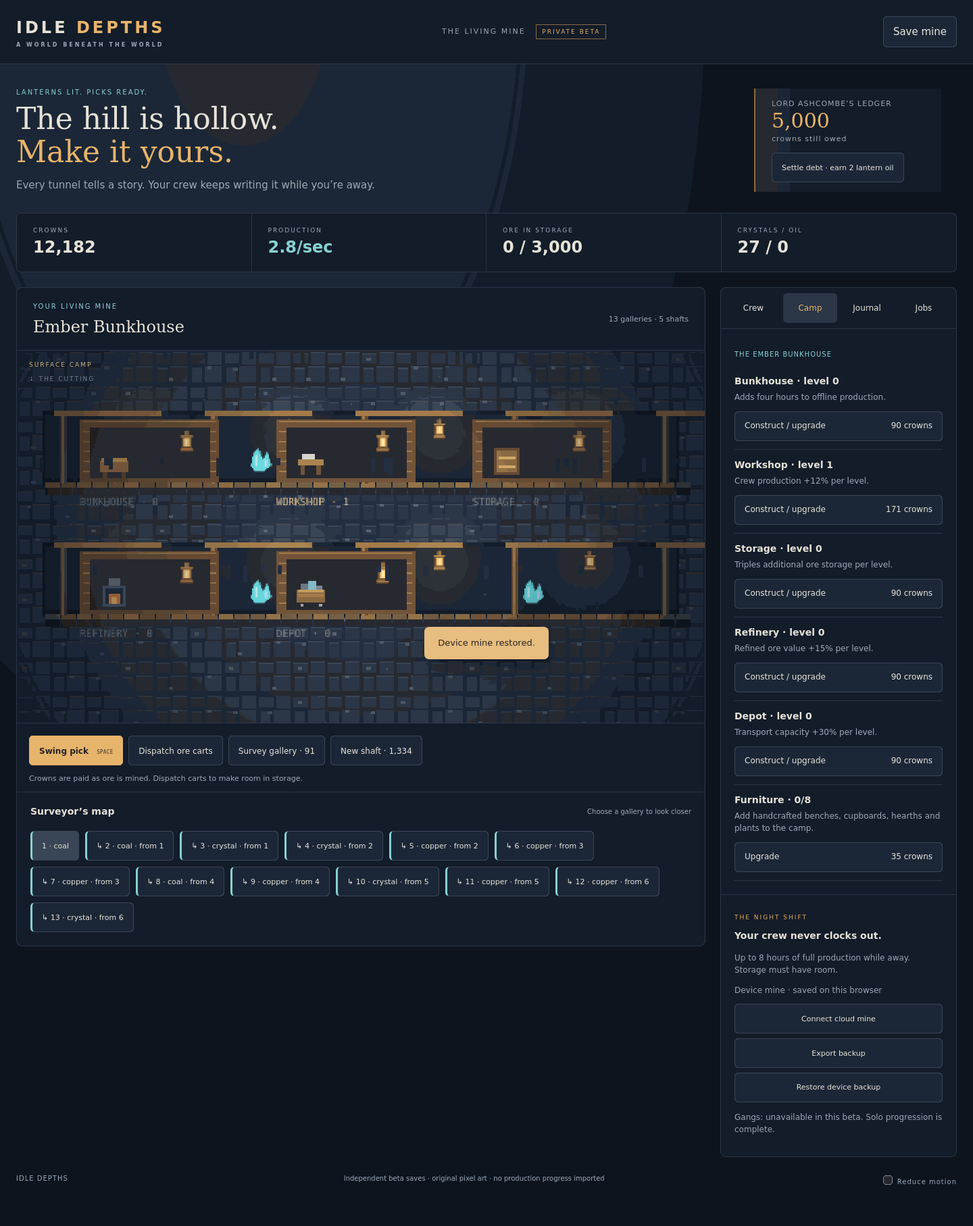
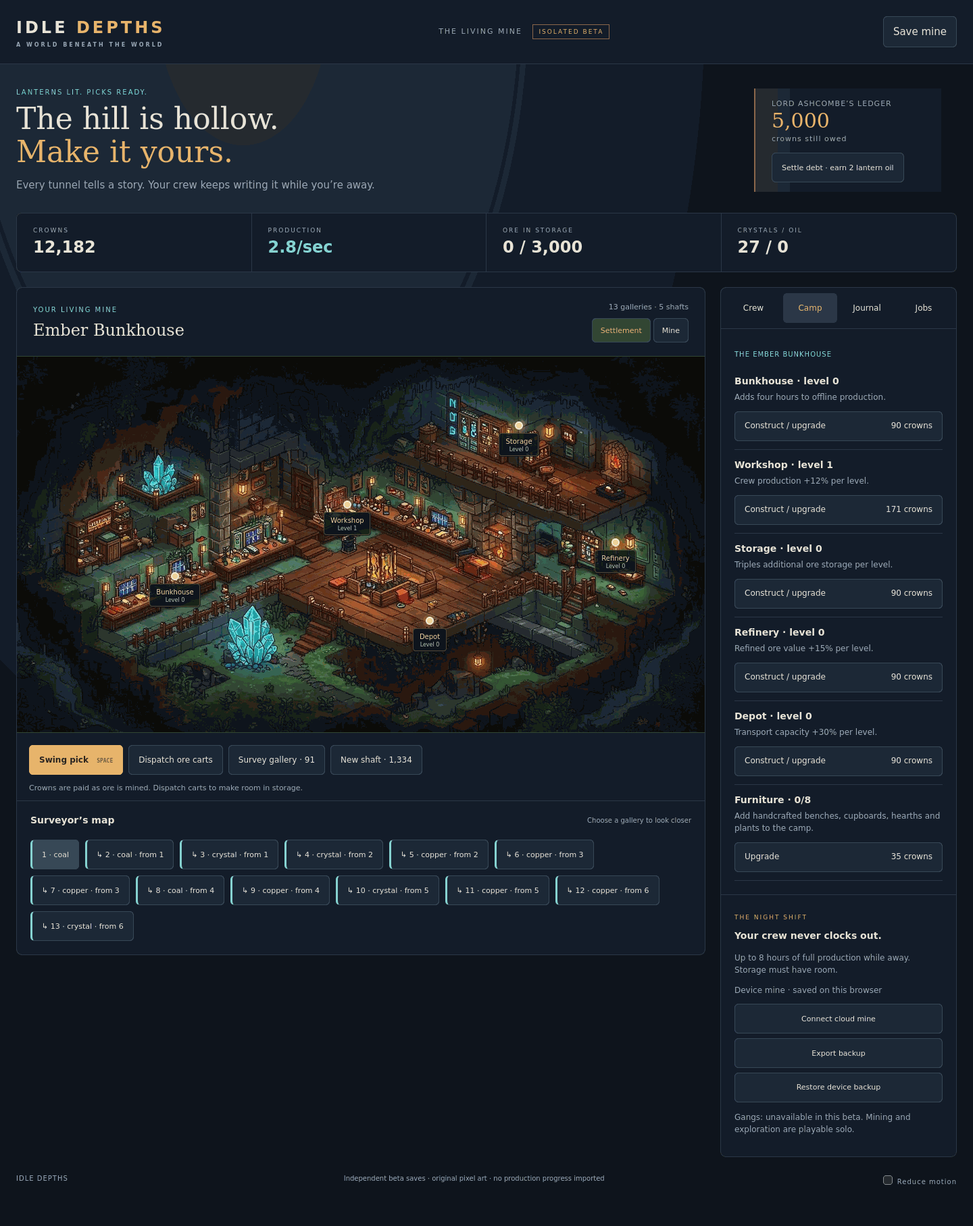
Use supplied settlement scene with functional facility hotspots and separate mine view

Changed region(s): [[0.0, 0.2468, 0.75, 0.7713], [0.5938, 0.6479, 0.6875, 0.6788], [0.9062, 0.8948, 0.9375, 0.9256]]

diff --git a/public/living-mine-beta/ui.js b/public/living-mine-beta/ui.js
@@ -1,6 +1,6 @@
 import {fresh,advance,action,rate,capacity,price,BUILDINGS,BIOMES,FINDS,contractList,validate} from './engine.js';
 import {render} from './renderer.js';
-const $=s=>document.querySelector(s),KEY='idle-depths:living-mine:v1',BACK=KEY+':backup';let s,tab='crew',selected=0,cloud=false,busy=false,dirty=false,toastTimer,lastPaint=0,frame=0;let reduced=matchMedia('(prefers-reduced-motion: reduce)').matches;$('#motion').checked=reduced;
+const $=s=>document.querySelector(s),KEY='idle-depths:living-mine:v1',BACK=KEY+':backup';let s,tab='settlement',sceneView='settlement',selected=0,cloud=false,busy=false,dirty=false,toastTimer,lastPaint=0,frame=0;let reduced=matchMedia('(prefers-reduced-motion: reduce)').matches;$('#motion').checked=reduced;
 const fmt=n=>Math.floor(n).toLocaleString();function toast(t){$('#toast').textContent=t;$('#toast').style.display='block';clearTimeout(toastTimer);toastTimer=setTimeout(()=>$('#toast').style.display='none',5000);}
 function persist(){if(cloud)return;try{const prev=localStorage.getItem(KEY);if(prev)localStorage.setItem(BACK,prev);localStorage.setItem(KEY,JSON.stringify(s));dirty=false;$('#mode').textContent='Device mine · saved on this browser';}catch{$('#mode').textContent='Storage unavailable · export a backup before leaving';}}
 function init(){try{const raw=localStorage.getItem(KEY);s=raw?validate(JSON.parse(raw)):fresh(crypto.getRandomValues(new Uint32Array(1))[0]);}catch{try{const damaged=localStorage.getItem(KEY);if(damaged)localStorage.setItem(KEY+':damaged',damaged);}catch{}try{s=validate(JSON.parse(localStorage.getItem(BACK)));toast('Recovered the previous device save.');}catch{s=fresh(crypto.getRandomValues(new Uint32Array(1))[0]);toast('Unreadable save kept in storage; starting a new device mine. Export before saving if you need recovery.');}}const elapsed=Date.now()-s.last;const r=advance(s,Date.now());s=r.state;if(elapsed>60000)toast(`Your crew earned ${fmt(r.earned)} crowns while you were away.`);draw();$('#mode').textContent='Device mine · cloud saves connect separately';}
@@ -9,10 +9,12 @@ function panel(){if(tab==='crew')return `<p class="tag">${s.miners} MINERS ON SH
  if(tab==='settlement')return '<p class="tag">THE EMBER BUNKHOUSE</p>'+BUILDINGS.map((id,i)=>card(`${id[0].toUpperCase()+id.slice(1)} · level ${s.buildings[id]}`,['Adds four hours to offline production.','Crew production +12% per level.','Triples additional ore storage per level.','Refined ore value +15% per level.','Transport capacity +30% per level.'][i]+(s.construction?.id===id?` Building: ${Math.max(0,Math.ceil((s.construction.ends-Date.now())/1000))}s remaining.`:''),'build',price(s,'build',id),id,!!s.construction||s.buildings[id]>=5)).join('')+card(`Furniture · ${s.decor}/8`,'Add handcrafted benches, cupboards, hearths and plants to the camp.','decor',35,null,s.decor>=8);
  if(tab==='journal')return `<p class="tag">${s.journal.length} DISCOVERIES · +${s.journal.length*3}% PRODUCTION</p>`+(s.journal.length?s.journal.map(j=>`<div class="card"><h3>${FINDS[j.find][0]}</h3><p>${FINDS[j.find][1]}</p><small>Gallery ${j.chamber+1} · ${BIOMES[s.chambers[j.chamber].biome].name}</small></div>`).join(''):'<p>The stone keeps its secrets. Mine 180 crowns to reveal your first discovery. Each surveyed gallery has another find.</p>');
  return '<p class="tag">THE CONTRACT BOARD</p>'+contractList(s).map(c=>`<div class="card"><h3>${c.name}</h3><p>${fmt(Math.min(c.goal,c.progress))} / ${fmt(c.goal)} · reward ${c.reward} crowns + 1 crystal</p><progress value="${Math.min(c.goal,c.progress)}" max="${c.goal}"></progress><button data-action="contract" data-id="${c.id}" ${s.claimed.includes(c.id)||c.progress<c.goal?'disabled':''}>${s.claimed.includes(c.id)?'Completed':'Collect reward'}</button></div>`).join('');}
-function draw(){const view=cloud?advance(s,Date.now()).state:s;$('#cash').textContent=fmt(view.cash);$('#rate').textContent=rate(s).toFixed(1)+'/sec';$('#ore').textContent=fmt(view.ore)+' / '+fmt(capacity(s));$('#crystals').textContent=fmt(s.crystals)+' / '+s.oil;$('#debt').textContent=fmt(s.debt);$('#biome').textContent=tab==='settlement'?'Ember Bunkhouse':BIOMES[s.chambers[selected]?.biome||0].name;$('#depth').textContent=`${s.chambers.length} galleries · ${s.shafts} shafts`;$('#explore').textContent='Survey gallery · '+fmt(price(s,'explore'));$('#explore').disabled=s.cash<price(s,'explore')||s.chambers.length>=s.shafts*3;$('#shaft').textContent='New shaft · '+fmt(price(s,'shaft'));$('#shaft').disabled=s.cash<price(s,'shaft')||s.shafts>=8;$('#offline-info').textContent=`Up to ${8+s.buildings.bunkhouse*4} hours of full production while away. Storage must have room.`;$('#panel').innerHTML=panel();$('#map').innerHTML=s.chambers.map(c=>`<button data-chamber="${c.id}" class="${selected===c.id?'selected':''}" aria-pressed="${selected===c.id}">${c.id?'↳ ':''}${c.id+1} · ${c.deposit}${c.parent!==null?` · from ${c.parent+1}`:''}</button>`).join('');$('[data-action="debt"]').disabled=s.cash<s.debt;}
+const stations=[{id:'bunkhouse',name:'Bunkhouse',x:23,y:62},{id:'workshop',name:'Workshop',x:48,y:43},{id:'storage',name:'Storage',x:73,y:22},{id:'refinery',name:'Refinery',x:87,y:53},{id:'depot',name:'Depot',x:60,y:74}];
+function drawSettlement(){const camp=sceneView==='settlement';$('#settlement-scene').hidden=!camp;$('#scene').hidden=camp;$('#scene-label').hidden=camp;document.querySelectorAll('[data-view]').forEach(b=>b.setAttribute('aria-pressed',String(b.dataset.view===sceneView)));$('#settlement-hotspots').innerHTML=stations.map(p=>{const building=s.construction?.id===p.id;const status=building?`Building · ${Math.max(0,Math.ceil((s.construction.ends-Date.now())/1000))}s`:`Level ${s.buildings[p.id]}`;return `<button class="station ${building?'constructing':''}" data-station="${p.id}" style="left:${p.x}%;top:${p.y}%" aria-label="Open ${p.name} upgrades, ${status}"><span class="station-dot"></span><span class="station-label">${p.name}<small>${status}</small></span></button>`;}).join('');}
+function draw(){const view=cloud?advance(s,Date.now()).state:s;$('#cash').textContent=fmt(view.cash);$('#rate').textContent=rate(s).toFixed(1)+'/sec';$('#ore').textContent=fmt(view.ore)+' / '+fmt(capacity(s));$('#crystals').textContent=fmt(s.crystals)+' / '+s.oil;$('#debt').textContent=fmt(s.debt);$('#biome').textContent=sceneView==='settlement'?'Ember Bunkhouse':BIOMES[s.chambers[selected]?.biome||0].name;$('#depth').textContent=`${s.chambers.length} galleries · ${s.shafts} shafts`;$('#explore').textContent='Survey gallery · '+fmt(price(s,'explore'));$('#explore').disabled=s.cash<price(s,'explore')||s.chambers.length>=s.shafts*3;$('#shaft').textContent='New shaft · '+fmt(price(s,'shaft'));$('#shaft').disabled=s.cash<price(s,'shaft')||s.shafts>=8;$('#offline-info').textContent=`Up to ${8+s.buildings.bunkhouse*4} hours of full production while away. Storage must have room.`;$('#panel').innerHTML=panel();drawSettlement();$('#map').innerHTML=s.chambers.map(c=>`<button data-chamber="${c.id}" class="${selected===c.id?'selected':''}" aria-pressed="${selected===c.id}">${c.id?'↳ ':''}${c.id+1} · ${c.deposit}${c.parent!==null?` · from ${c.parent+1}`:''}</button>`).join('');$('[data-action="debt"]').disabled=s.cash<s.debt;}
 async function send(a){if(busy)return;busy=true;try{if(cloud){const r=await fetch('/api/living-mine/action',{method:'POST',headers:{'content-type':'application/json'},body:JSON.stringify({requestId:crypto.randomUUID(),revision:s.revision,action:a})});const data=await r.json();if(!r.ok){if(r.status===409)await sync();throw Error(data.error||'Cloud request failed');}s=validate(data.state);}else{s=action(s,a,Date.now());dirty=true;persist();}draw();}catch(e){toast(e.message);}finally{busy=false;}}
 async function sync(){const r=await fetch('/api/living-mine/state');const data=await r.json();if(!r.ok)throw Error(data.error||'Cloud unavailable');s=validate(data.state);cloud=true;selected=Math.min(selected,s.chambers.length-1);$('#mode').textContent='Cloud mine · server validated · separate from device mine';$('#cloud').textContent='Refresh cloud mine';draw();return data;}
-document.addEventListener('click',e=>{const btn=e.target.closest('button');if(!btn)return;if(btn.dataset.action)send({type:btn.dataset.action,id:btn.dataset.id});if(btn.dataset.tab){tab=btn.dataset.tab;document.querySelectorAll('[data-tab]').forEach(b=>b.setAttribute('aria-selected',String(b===btn)));draw();}if(btn.dataset.chamber){selected=+btn.dataset.chamber;draw();}});
+document.addEventListener('click',e=>{const btn=e.target.closest('button');if(!btn)return;if(btn.dataset.action)send({type:btn.dataset.action,id:btn.dataset.id});if(btn.dataset.view){sceneView=btn.dataset.view;draw();}if(btn.dataset.station){tab='settlement';document.querySelectorAll('[data-tab]').forEach(b=>b.setAttribute('aria-selected',String(b.dataset.tab===tab)));draw();const target=document.querySelector(`[data-action=build][data-id=${btn.dataset.station}]`);target?.closest('.card')?.scrollIntoView({behavior:reduced?'instant':'smooth',block:'nearest'});target?.focus({preventScroll:true});}if(btn.dataset.tab){tab=btn.dataset.tab;document.querySelectorAll('[data-tab]').forEach(b=>b.setAttribute('aria-selected',String(b===btn)));draw();}if(btn.dataset.chamber){selected=+btn.dataset.chamber;sceneView='mine';draw();}});
 document.addEventListener('keydown',e=>{if(e.code==='Space'&&!['INPUT','BUTTON','TEXTAREA'].includes(document.activeElement.tagName)){e.preventDefault();send({type:'mine'});}});
 $('#save').onclick=async()=>{try{if(cloud)await sync();else persist();toast('Mine saved. Your crew will keep working.');}catch(e){toast(e.message);}};
 $('#cloud').onclick=async()=>{if(busy)return;busy=true;try{if(!cloud)persist();const data=await sync();toast(`Cloud mine opened. ${fmt(data.earned)} crowns earned since your last visit.`);}catch(e){toast(e.message);}finally{busy=false;}};
@@ -23,4 +25,4 @@ document.addEventListener('visibilitychange',()=>{if(document.hidden){if(!cloud)
 window.addEventListener('pagehide',()=>{if(!cloud)persist();});
 // Device saves are independent and intentionally not trusted by the cloud service.
 init();setInterval(()=>{if(!cloud){s=advance(s,Date.now()).state;dirty=true;}draw();},1000);setInterval(()=>{if(cloud&&!busy&&!document.hidden)sync().catch(e=>{$('#mode').textContent='Cloud connection interrupted · retry to reconcile';});else if(dirty)persist();},15000);
-function animate(t){if(!document.hidden&&t-lastPaint>(reduced?1000:1000/24)){render($('#scene'),s,reduced?0:t,selected,tab==='settlement');lastPaint=t;}frame=requestAnimationFrame(animate);}requestAnimationFrame(animate);
+function animate(t){if(sceneView==='mine'&&!document.hidden&&t-lastPaint>(reduced?1000:1000/24)){render($('#scene'),s,reduced?0:t,selected,false);lastPaint=t;}frame=requestAnimationFrame(animate);}requestAnimationFrame(animate);

diff --git a/public/living-mine-beta/style.css b/public/living-mine-beta/style.css
@@ -1,2 +1,4 @@
 :root{color-scheme:dark;--bg:#0d141f;--panel:#151e2b;--line:#2b3747;--text:#e8e3d7;--muted:#9caaba;--amber:#e8b56b;--cyan:#86d2d0}*{box-sizing:border-box}body{margin:0;background:radial-gradient(ellipse at 25% 0,#233041 0,transparent 45%),var(--bg);font:15px/1.5 system-ui,sans-serif;color:var(--text)}button,.import{font:inherit;border:1px solid #3b4a5c;background:#1d2a3b;color:var(--text);padding:11px 14px;min-height:44px;border-radius:6px;cursor:pointer;transition:background .15s}button:hover{background:#304259}button:focus-visible,a:focus-visible,input:focus-visible{outline:3px solid var(--cyan);outline-offset:3px}button:disabled{opacity:.4;cursor:default}header{display:flex;align-items:center;justify-content:space-between;gap:15px;padding:22px max(24px,calc((100vw - 1440px)/2));border-bottom:1px solid var(--line);background:#101824d9}.brand{font-size:24px;font-weight:900;letter-spacing:4px;color:var(--text);text-decoration:none}.brand span{color:var(--amber)}.brand small{display:block;font-size:8px;letter-spacing:3px;color:var(--muted);margin-top:2px}.beta{font-size:11px;letter-spacing:2px;color:var(--muted)}.beta span{display:inline-block;border:1px solid #856b44;color:var(--amber);padding:3px 8px;margin-left:10px;font-size:9px}main{max-width:1440px;margin:auto;padding:34px 24px}.intro{display:flex;justify-content:space-between;gap:24px;align-items:center;margin-bottom:30px}.eyebrow{font-size:10px;letter-spacing:2px;color:var(--cyan);margin:0 0 8px}h1{font-family:Georgia,serif;font-size:44px;line-height:1.1;margin:0 0 14px;font-weight:normal}h1 em{color:var(--amber);font-style:normal}.intro p:not(.eyebrow){color:var(--muted);margin:0}.ledger{border-left:2px solid #866a44;padding:14px 24px;background:linear-gradient(90deg,#b0823220,transparent);width:300px}.ledger small,.ledger span{display:block;color:var(--muted);font-size:11px;letter-spacing:1px}.ledger strong{font:30px Georgia;color:var(--amber)}.ledger button{font-size:11px;margin-top:12px}.stats{display:grid;grid-template-columns:repeat(4,1fr);border:1px solid var(--line);border-radius:8px;margin-bottom:22px;background:#131d2b}.stats>div{padding:18px 24px;border-right:1px solid var(--line)}.stats>div:last-child{border:0}.stats small{display:block;font-size:9px;letter-spacing:2px;color:var(--muted)}.stats strong{font-size:24px;font-weight:600}.stats>div:nth-child(2) strong{color:var(--cyan)}.workspace{display:grid;grid-template-columns:minmax(0,1fr) 350px;gap:22px}.mine,aside{border:1px solid var(--line);border-radius:9px;background:var(--panel);overflow:hidden}.scene-head{display:flex;justify-content:space-between;align-items:center;padding:20px 24px}.scene-head h2{font:24px Georgia;margin:0}.scene-head>span{font-size:11px;color:var(--muted)}.canvas-wrap{position:relative;background:#111926;border-block:1px solid var(--line)}canvas{display:block;width:100%;aspect-ratio:960/520;image-rendering:pixelated}.scene-label{position:absolute;left:18px;top:14px;font-size:9px;letter-spacing:2px;color:#d4ba8b;text-shadow:0 2px #0d141f}.scene-label span{display:block;color:#728899;margin-top:8px}.mine-controls{display:flex;flex-wrap:wrap;gap:8px;padding:18px 18px 0}.mine-controls button{font-size:12px}.primary{background:var(--amber);border-color:var(--amber);color:#29261f;font-weight:700}.primary:hover{background:#ffd397}kbd{font-size:8px;opacity:.6;margin-left:8px}.hint{font-size:11px;color:var(--muted);padding:0 18px}.map-head{display:flex;justify-content:space-between;align-items:center;padding:10px 20px;border-top:1px solid var(--line)}h3{font-size:14px;margin:8px 0}.map-head span{font-size:10px;color:var(--muted)}.map{display:flex;flex-wrap:wrap;gap:9px;padding:0 20px 20px}.map button{font-size:11px;border-left:3px solid var(--cyan)}.map .selected{background:#304655}nav{display:flex;border-bottom:1px solid var(--line);padding:8px;gap:4px}nav button{flex:1;background:transparent;border:0;padding:10px 4px;font-size:12px}nav button[aria-selected=true]{background:#2c3b4d;color:var(--amber)}#panel{padding:20px;min-height:360px}.card{border-bottom:1px solid var(--line);padding:12px 0}.card:first-child{padding-top:0}.card h3{margin:0 0 4px}.card p{font-size:12px;color:var(--muted);margin:3px 0 12px}.card button{width:100%;font-size:12px;display:flex;justify-content:space-between}.card img{width:48px;height:48px;image-rendering:pixelated}.tag{color:var(--cyan);font-size:10px;letter-spacing:1px}.shift{padding:20px;background:#101927;border-top:1px solid var(--line)}.shift small{color:var(--amber);font-size:9px;letter-spacing:2px}.shift p{font-size:12px;color:var(--muted)}.shift button,.import{display:block;width:100%;text-align:center;font-size:11px;margin:7px 0}.import input{display:none}footer{display:flex;justify-content:space-between;gap:16px;flex-wrap:wrap;padding:24px 0;color:var(--muted);font-size:10px;letter-spacing:1px}footer span{letter-spacing:0}#toast{position:fixed;bottom:25px;left:50%;transform:translateX(-50%);background:#e7bd80;color:#272622;box-shadow:0 8px 35px #0007;padding:14px 20px;border-radius:7px;max-width:90vw;font-size:13px;display:none;z-index:10}progress{width:100%;height:7px;accent-color:var(--amber)}@media(max-width:1000px){.workspace{grid-template-columns:minmax(0,1fr) 300px}.stats strong{font-size:19px}}@media(max-width:760px){header{padding:16px}.brand{font-size:19px}.beta{display:none}main{padding:24px 12px}.intro{align-items:flex-start}.intro h1{font-size:32px}.intro p:not(.eyebrow){font-size:12px}.ledger{width:155px;padding:8px 12px}.ledger strong{font-size:22px}.ledger small{font-size:8px}.ledger button{padding:8px;font-size:10px}.stats{grid-template-columns:repeat(2,1fr)}.stats>div{padding:12px 16px;border-bottom:1px solid var(--line)}.workspace{grid-template-columns:1fr;gap:16px}.scene-head{padding:15px}.scene-head h2{font-size:22px}canvas{min-height:235px;object-fit:cover}.mine-controls{display:grid;grid-template-columns:1fr 1fr;padding:12px 12px 0}.mine-controls button{padding:10px 6px}kbd{display:none}.map-head span{display:none}#panel{min-height:0}nav{position:sticky;top:0;background:var(--panel)}footer{padding:16px 5px}button{touch-action:manipulation}}@media(prefers-reduced-motion:reduce){*{transition:none!important}}
 .mine{align-self:start}
+/* The supplied scene is the settlement foundation. Gameplay stays in real controls. */
+[hidden]{display:none!important}.scene-tools{display:flex;flex-direction:column;align-items:flex-end;gap:9px}.scene-tools>span{font-size:11px;color:var(--muted)}.scene-switch{display:flex;gap:4px}.scene-switch button{font-size:11px;padding:5px 12px;min-height:36px}.scene-switch button[aria-pressed=true]{color:var(--amber);background:#304237}.settlement-scene{position:relative;isolation:isolate;background:#0b1412}.settlement-scene>img{display:block;width:100%;height:auto;image-rendering:auto}.station{position:absolute;transform:translate(-50%,-50%);display:flex;flex-direction:column;align-items:center;justify-content:center;gap:5px;border:0;background:transparent!important;padding:5px;min-width:44px;min-height:44px;border-radius:6px;text-shadow:0 1px 3px #000;z-index:2}.station-dot{width:12px;height:12px;background:#efc785;border:2px solid #fff3d6;border-radius:50%;box-shadow:0 0 0 4px #e7b26724,0 0 16px #e7b26799}.station-label{display:block;white-space:nowrap;background:#101b17e6;border:1px solid #98794b85;border-radius:4px;padding:4px 9px;font-size:10px;line-height:1.35;color:#f1d6a5;box-shadow:0 2px 12px #0004}.station-label small{display:block;color:#b8c9bb;font-size:8px}.station:hover .station-label,.station:focus-visible .station-label{background:#3c4934;border-color:#f0c582}.constructing .station-dot{background:#80d0cb;box-shadow:0 0 12px #71c8c5}.constructing .station-label{border-color:#74bbb9}.canvas-wrap:has(.settlement-scene:not([hidden])){border-color:#3f4c3e}.card:focus-within{background:#deac5f0b}@media(max-width:760px){.scene-switch button{min-height:44px}.station-label{font-size:8px;padding:3px 5px}.station-label small{font-size:7px}.station-dot{width:8px;height:8px}.station{gap:3px;padding:3px}.scene-tools>span{font-size:9px}.scene-head .eyebrow{font-size:8px}}

diff --git a/public/living-mine-beta/index.html b/public/living-mine-beta/index.html
@@ -1,1 +1,1 @@
-<!doctype html><html lang="en"><head><meta charset="utf-8"><meta name="viewport" content="width=device-width,initial-scale=1,viewport-fit=cover"><meta name="theme-color" content="#111925"><title>IDLE DEPTHS · Living Mine Beta</title><link rel="icon" href="../icon.svg"><link rel="stylesheet" href="style.css"></head><body><header><a class="brand" href="/">IDLE <span>DEPTHS</span><small>A WORLD BENEATH THE WORLD</small></a><div class="beta">THE LIVING MINE <span>ISOLATED BETA</span></div><button id="save">Save mine</button></header><main><section class="intro"><div><p class="eyebrow">LANTERNS LIT. PICKS READY.</p><h1>The hill is hollow.<br><em>Make it yours.</em></h1><p>Every tunnel tells a story. Your crew keeps writing it while you’re away.</p></div><div class="ledger"><small>LORD ASHCOMBE’S LEDGER</small><strong id="debt"></strong><span>crowns still owed</span><button data-action="debt">Settle debt · earn 2 lantern oil</button></div></section><section class="stats" aria-label="Mine resources"><div><small>CROWNS</small><strong id="cash">—</strong></div><div><small>PRODUCTION</small><strong id="rate">—</strong></div><div><small>ORE IN STORAGE</small><strong id="ore">—</strong></div><div><small>CRYSTALS / OIL</small><strong id="crystals">—</strong></div></section><section class="workspace"><div class="mine"><div class="scene-head"><div><p class="eyebrow">YOUR LIVING MINE</p><h2 id="biome">The Cutting</h2></div><span id="depth"></span></div><div class="canvas-wrap"><canvas id="scene" width="960" height="520" aria-label="Side view of your mine. Use Swing pick to mine and the map to select galleries."></canvas><div class="scene-label">SURFACE CAMP <span>↓ THE CUTTING</span></div></div><div class="mine-controls"><button class="primary" data-action="mine">Swing pick <kbd>SPACE</kbd></button><button data-action="haul">Dispatch ore carts</button><button data-action="explore" id="explore"></button><button data-action="shaft" id="shaft"></button></div><p class="hint">Crowns are paid as ore is mined. Dispatch carts to make room in storage.</p><div class="map-head"><h3>Surveyor’s map</h3><span>Choose a gallery to look closer</span></div><div id="map" class="map"></div></div><aside><nav aria-label="Mine panels"><button data-tab="crew" aria-selected="true">Crew</button><button data-tab="settlement">Camp</button><button data-tab="journal">Journal</button><button data-tab="contracts">Jobs</button></nav><div id="panel"></div><section class="shift"><small>THE NIGHT SHIFT</small><h3>Your crew never clocks out.</h3><p id="offline-info">Up to 8 hours of full production while you’re away.</p><p id="mode">Opening the mine…</p><button id="cloud">Connect cloud mine</button><button id="export">Export backup</button><label class="import">Restore device backup<input id="import" type="file" accept="application/json"></label><p>Gangs: unavailable in this beta. Mining and exploration are playable solo.</p></section></aside></section><footer>IDLE DEPTHS <span>Independent beta saves · original pixel art · no production progress imported</span><label><input type="checkbox" id="motion"> Reduce motion</label></footer></main><div id="toast" role="status" aria-live="polite"></div><script type="module" src="ui.js"></script></body></html>
+<!doctype html><html lang="en"><head><meta charset="utf-8"><meta name="viewport" content="width=device-width,initial-scale=1,viewport-fit=cover"><meta name="theme-color" content="#111925"><title>IDLE DEPTHS · Living Mine Beta</title><link rel="icon" href="../icon.svg"><link rel="stylesheet" href="style.css"></head><body><header><a class="brand" href="/">IDLE <span>DEPTHS</span><small>A WORLD BENEATH THE WORLD</small></a><div class="beta">THE LIVING MINE <span>ISOLATED BETA</span></div><button id="save">Save mine</button></header><main><section class="intro"><div><p class="eyebrow">LANTERNS LIT. PICKS READY.</p><h1>The hill is hollow.<br><em>Make it yours.</em></h1><p>Every tunnel tells a story. Your crew keeps writing it while you’re away.</p></div><div class="ledger"><small>LORD ASHCOMBE’S LEDGER</small><strong id="debt"></strong><span>crowns still owed</span><button data-action="debt">Settle debt · earn 2 lantern oil</button></div></section><section class="stats" aria-label="Mine resources"><div><small>CROWNS</small><strong id="cash">—</strong></div><div><small>PRODUCTION</small><strong id="rate">—</strong></div><div><small>ORE IN STORAGE</small><strong id="ore">—</strong></div><div><small>CRYSTALS / OIL</small><strong id="crystals">—</strong></div></section><section class="workspace"><div class="mine"><div class="scene-head"><div><p class="eyebrow">YOUR LIVING MINE</p><h2 id="biome">The Cutting</h2></div><div class="scene-tools"><span id="depth"></span><div class="scene-switch" aria-label="Scene view"><button data-view="settlement" aria-pressed="true">Settlement</button><button data-view="mine" aria-pressed="false">Mine</button></div></div></div><div class="canvas-wrap" id="scene-stage"><div id="settlement-scene" class="settlement-scene"><img src="assets/ember-settlement-reference.jpeg" alt="Your furnished underground settlement, with stone terraces, timber walkways, warm lanterns and glowing cyan crystals." width="1536" height="838"><div id="settlement-hotspots"></div></div><canvas id="scene" width="960" height="520" aria-label="Side view of your mine. Use Swing pick to mine and the map to select galleries."></canvas><div class="scene-label" id="scene-label">EMBER BUNKHOUSE <span>CHOOSE A WORKSTATION</span></div></div><div class="mine-controls"><button class="primary" data-action="mine">Swing pick <kbd>SPACE</kbd></button><button data-action="haul">Dispatch ore carts</button><button data-action="explore" id="explore"></button><button data-action="shaft" id="shaft"></button></div><p class="hint">Crowns are paid as ore is mined. Dispatch carts to make room in storage.</p><div class="map-head"><h3>Surveyor’s map</h3><span>Choose a gallery to look closer</span></div><div id="map" class="map"></div></div><aside><nav aria-label="Mine panels"><button data-tab="crew" aria-selected="false">Crew</button><button data-tab="settlement" aria-selected="true">Camp</button><button data-tab="journal">Journal</button><button data-tab="contracts">Jobs</button></nav><div id="panel"></div><section class="shift"><small>THE NIGHT SHIFT</small><h3>Your crew never clocks out.</h3><p id="offline-info">Up to 8 hours of full production while you’re away.</p><p id="mode">Opening the mine…</p><button id="cloud">Connect cloud mine</button><button id="export">Export backup</button><label class="import">Restore device backup<input id="import" type="file" accept="application/json"></label><p>Gangs: unavailable in this beta. Mining and exploration are playable solo.</p></section></aside></section><footer>IDLE DEPTHS <span>Independent beta saves · original pixel art · no production progress imported</span><label><input type="checkbox" id="motion"> Reduce motion</label></footer></main><div id="toast" role="status" aria-live="polite"></div><script type="module" src="ui.js"></script></body></html>

diff --git a/docs/living-mine-beta/README.md b/docs/living-mine-beta/README.md
@@ -68,3 +68,7 @@ Do not merge or deploy this branch until approved. Creating/pushing a feature br
 This is the first playable implementation. The small atlas and two-tier side-view camp are substantially simpler than the detailed isometric reference; it is not final production-quality artwork. World generation is a bounded connected gallery tree, with no collision-based free movement, flooded passage obstacles or branching exploration choices. Deposits label chambers; coal/copper currently share ore/crown value. Discoveries have a common 3% production bonus rather than individual research trees. Crystals are collectibles without a spending tree. No full Wyrm combat, complete stories, gang multiplayer or SwiftUI application. Facility levels change furnishings after level two, not bespoke art at every level. Device timestamps are not cheat-resistant; only cloud time is server-authoritative. Multiple guest tabs are not coordinated. Cloud receipts retain 128 IDs; stale revisions prevent old retries from repeating rewards. Prior cloud save is stored, but operator recovery is manual. No cloud save import/reset endpoints.
 
 Wrangler dry-run packaging passed. Local runtime testing was attempted but startup failed with `uv_interface_addresses returned Unknown system error 1`; see TEST-RESULTS.md. Actual iPhone Safari, Android Chrome, real Cloudflare deployment, Discord roundtrip and Durable Object runtime integration have not passed here and remain release gates. Firefox mobile viewport/touch tests are not a substitute for those devices. No changes have been deployed to the live website.
+
+## Current settlement presentation
+
+At the user's request the default settlement now uses their exact supplied reference image, with five positioned facility selectors and live upgrade/construction badges. The Mine view remains side-on and is selectable separately. The supplied image is a static scene foundation, not a procedural sprite layer; changing a facility currently changes its gameplay effects and badge, not the painted furniture. Art-source provenance is recorded in assets/SCENE.md. Further development should extend this composition instead of replacing it with generic rooms.

diff --git a/docs/living-mine-beta/CHANGELOG.md b/docs/living-mine-beta/CHANGELOG.md
@@ -6,3 +6,11 @@
 - Added separate local/preview Wrangler config, audit/architecture/deployment documentation and automated tests.
 - Added narrow root router dispatch and service-worker beta exclusion. Production HTML and existing save logic unchanged.
 - Fixed an epoch-timestamp precision issue discovered during browser offline/construction testing; added regression coverage.
+
+## Settlement scene correction
+
+- Use the user's supplied underground settlement image unchanged as the default Camp scene, instead of the simple generated room layout.
+- Add five positioned, touch-friendly facility controls with live levels and construction countdowns, linked to real facility upgrades.
+- Add Settlement / Mine view switching; gallery selection opens the existing side-view mine.
+- Preserve the supplied art as a background foundation for later layered animation and visual building upgrades. This image is user-supplied artwork, not a newly authored tileset.
+- Re-run Firefox gameplay, image loading, facility hotspot and mobile touch checks; preserve the current screenshot.

diff --git a/public/living-mine-beta/assets/SCENE.md b/public/living-mine-beta/assets/SCENE.md
@@ -1,0 +1,5 @@
+# Settlement scene foundation
+
+`ember-settlement-reference.jpeg` is an unchanged copy of the scene the user supplied and explicitly requested to use for the settlement. SHA-256: aa414169801d3342457c36da95d1ee123a1e69948bc1249e683738a52b4659cf.
+
+Its composition is retained in full, without cropping, replacement illustration or repainting. Facility locations and statuses are HTML overlays scaled with the image. Construction and upgrades affect the existing simulation and live badges; the background itself is presently static. Later work can add separate animated layers and stage-specific furnishings using this same scene as the composition baseline. The source-controlled atlas remains for the separate mine scene. This supplied image is not described as original artwork authored during development.

diff --git a/docs/living-mine-beta/TEST-RESULTS.md b/docs/living-mine-beta/TEST-RESULTS.md
@@ -23,3 +23,5 @@ Run during implementation, 8 October 2026.
 | Production Cloudflare deployment / live regression | Not run; approval required |
 
 Cloudflare release gates remain in README. Browser screenshots show fixture progression, not claims about actual production player data. Node tests use a transaction test double; they do not establish Cloudflare-runtime persistence.
+
+Settlement scene follow-up: supplied JPEG matched byte-for-byte; Firefox reference-image loading, five facility selectors, view switching and mobile hotspot taps passed. Shared-rules suite still passes all 12 tests. Updated desktop renderer sample: 1.52ms per frame; exact run results printed by the browser suite. The supplied scene background remains static.
